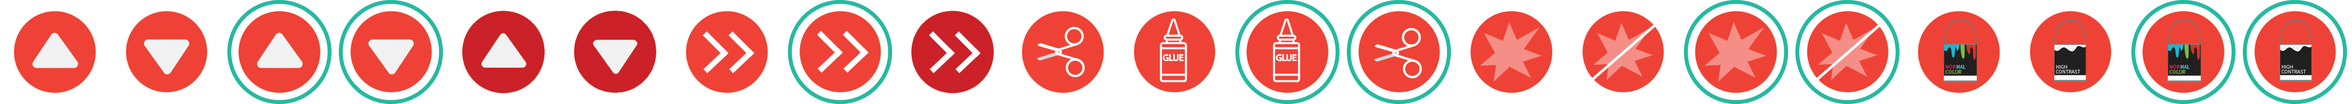
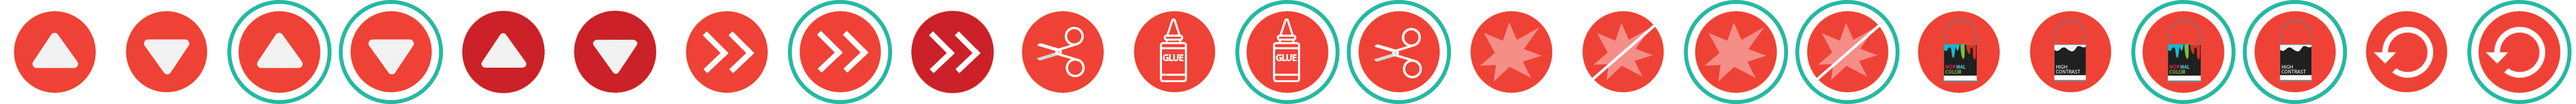
demo: Add reset button to ending screen

diff --git a/demo/js/endingScreen.js b/demo/js/endingScreen.js
@@ -31,9 +31,17 @@
             stateEnterAnimation: {
                 funcName: "demo.state.prelude.stateEnterAnimation",
                 args: ["{that}", 0, 0]
+            },
+            resetButtonCallback: {
+                funcName: "demo.state.endingScreen.resetButtonCallback",
+                args: ["{that}"]
             }
         }
     });
+
+    demo.state.endingScreen.resetButtonCallback = function(that) {
+        that.state.start("prelude");
+    };
 
     demo.state.endingScreen.yesNo = function(that, model, prop, propY) {
         if (model[prop]) {
@@ -85,6 +93,15 @@
 
         that.add.text(50, 770, model.lang.obj.cookieNote,
                                             { font: "35px Arial", fill: "#fed600" });
+
+        that.resetButton = that.add.button(1110, 680, "upDownButtonsp",
+                                            that.resetButtonCallback, that, 22, 21, 21);
+        that.resetButton.scale.setTo(0.8, 0.8);
+
+        that.input.keyboard.removeKey(Phaser.Keyboard.ENTER);
+        that.enter = that.input.keyboard.addKey(Phaser.Keyboard.ENTER);
+        that.enter.onDown.add(that.resetButtonCallback, that);
+
         that.stateEnterAnimation();
     };
 
